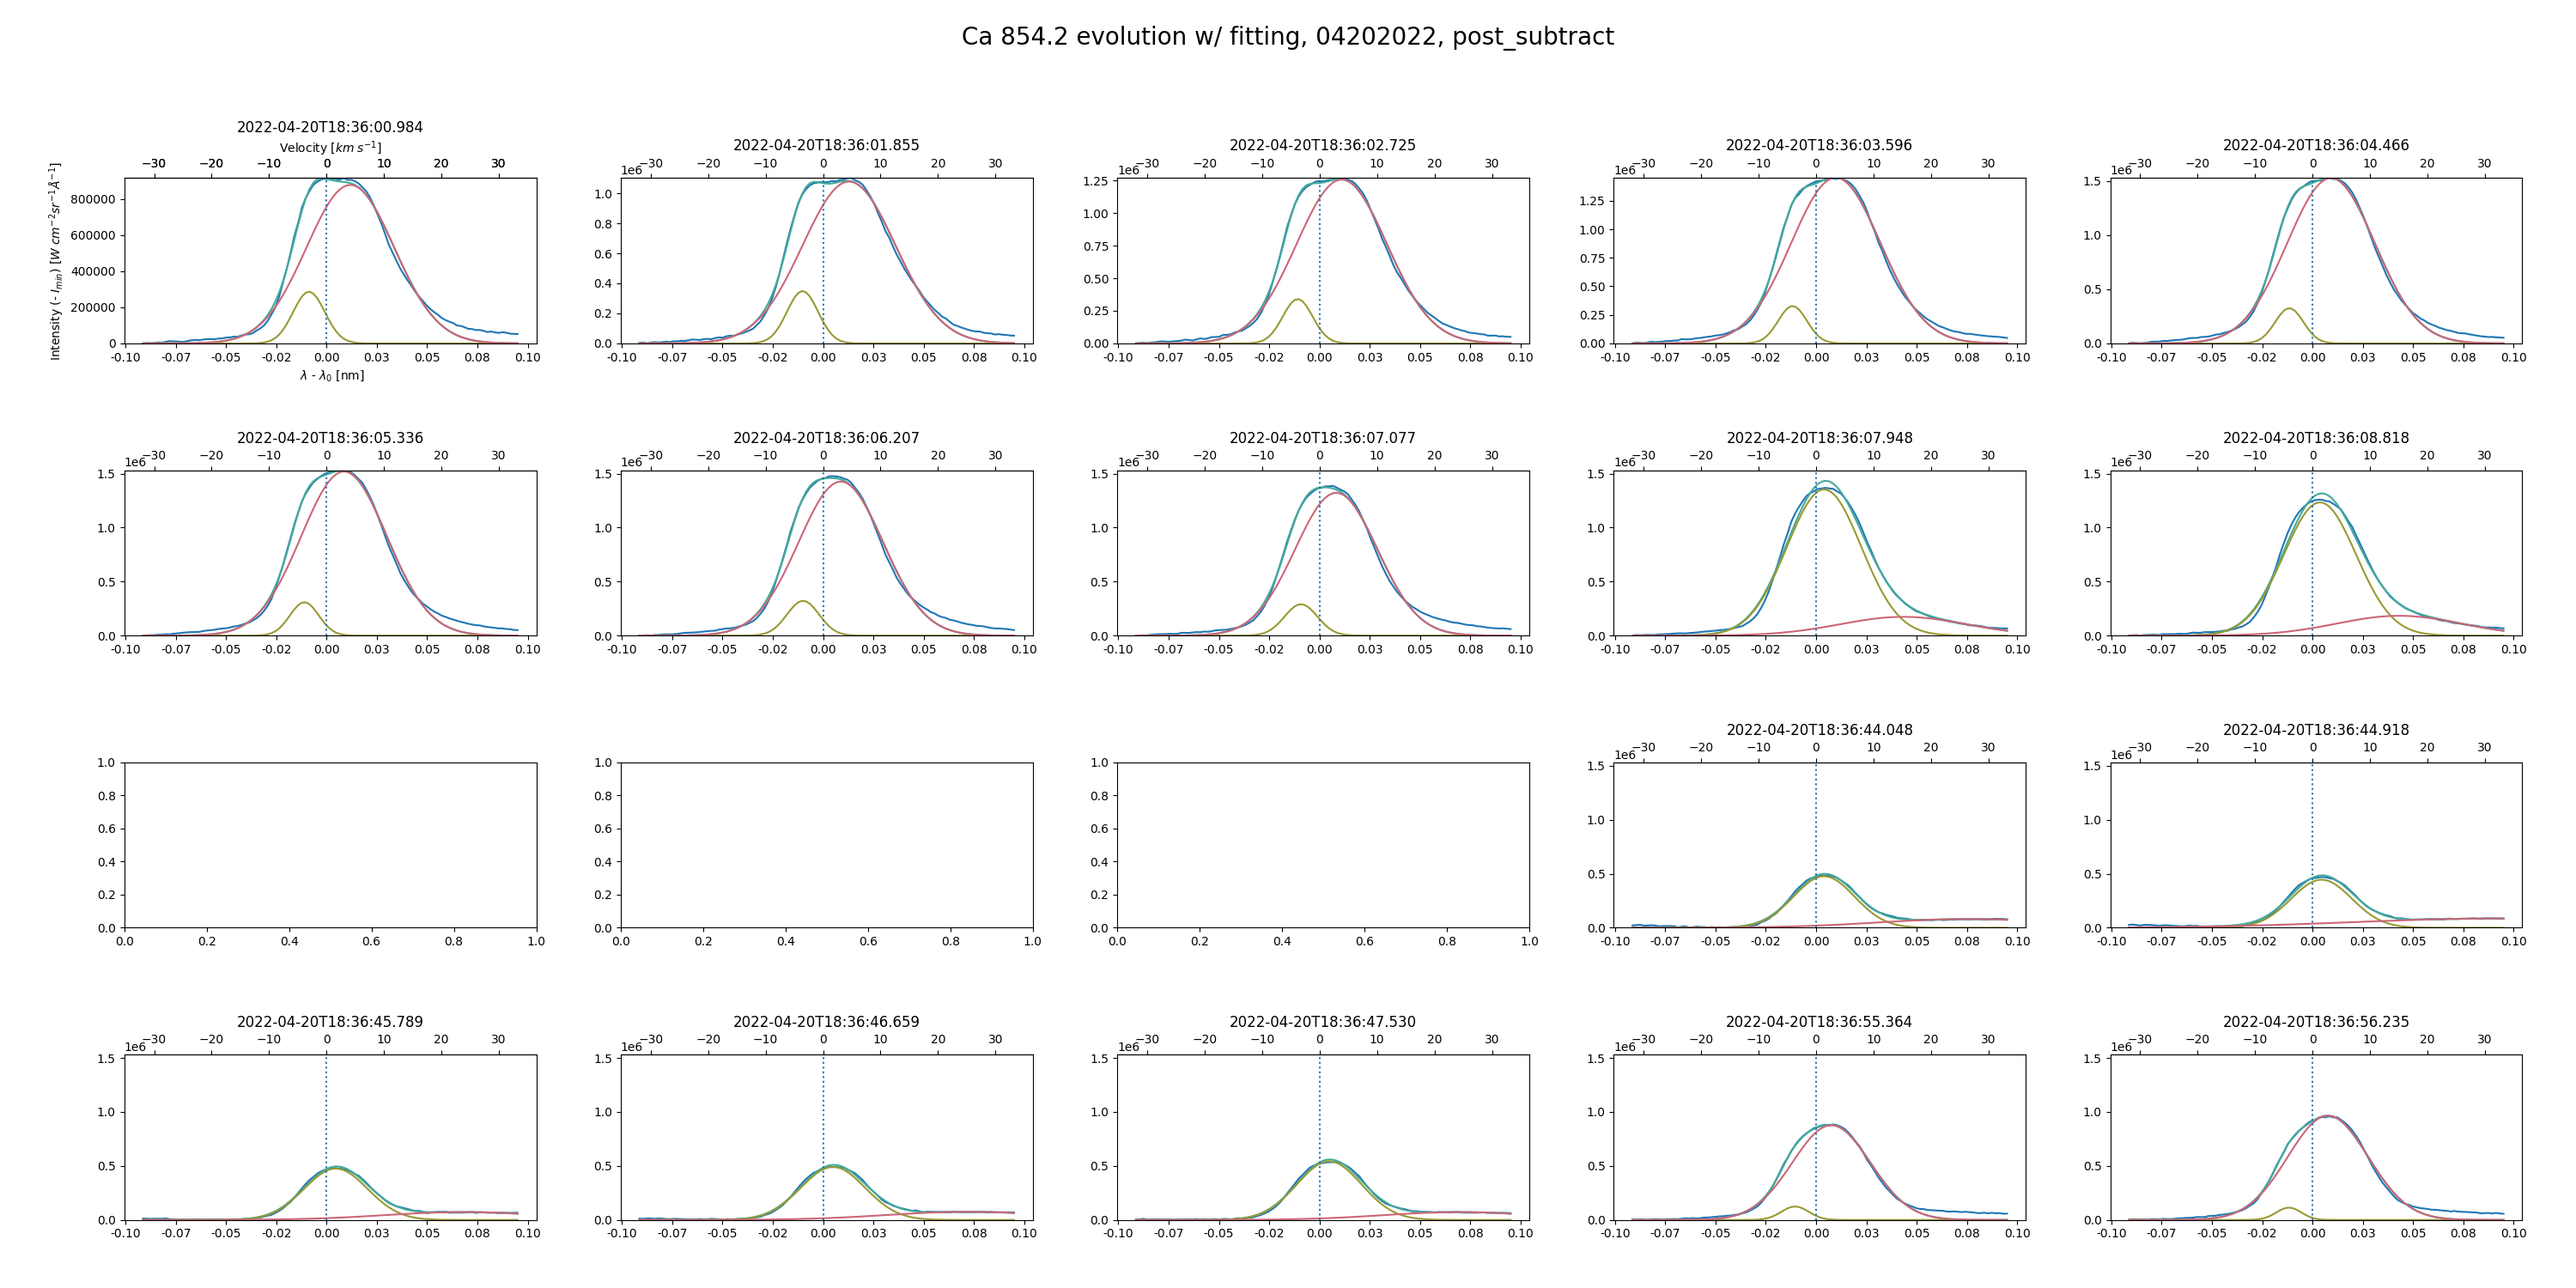
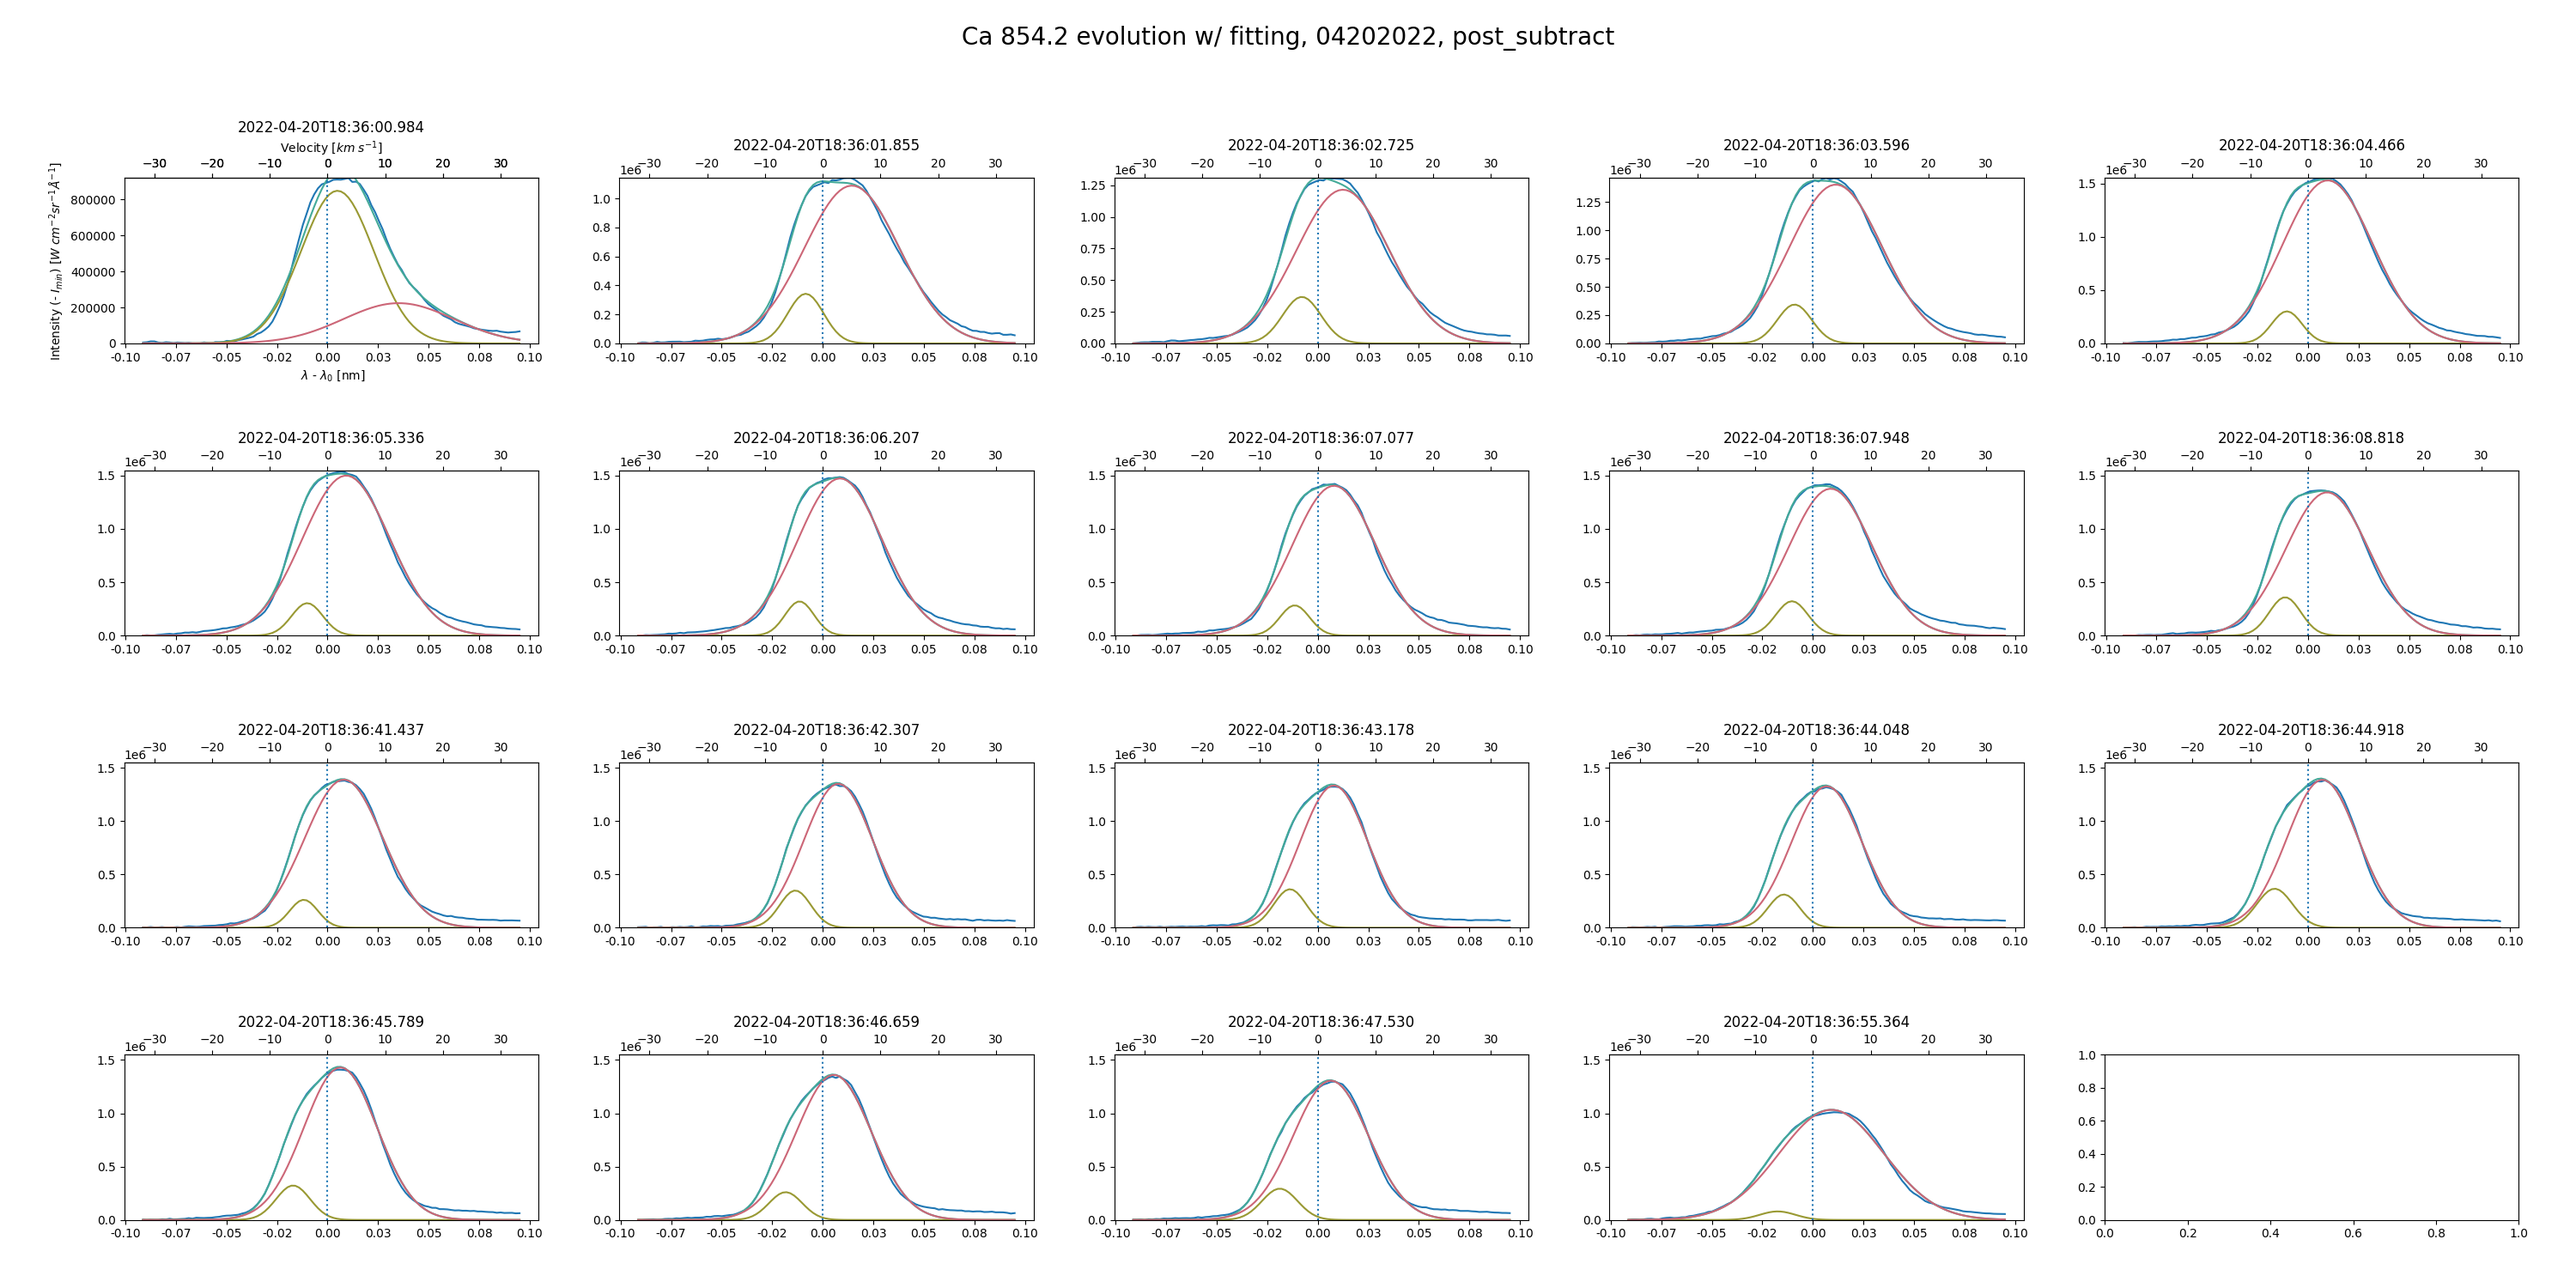
implement moving kernel center in pid_1_38 script

diff --git a/dkistpkg_ct.py b/dkistpkg_ct.py
@@ -410,15 +410,15 @@ def scaling(for_scale,nonflare_multfact,limbdarkening,nonflare_average,
     return scaled_flare_time, bkgd_subtract_flaretime
     
                             
-def pltsubtract(dispersion_range,nonflare_average,scaled_flare_time,muted,end=5,pid='pid_1_84',index=1350):
+def pltsubtract(dispersion_range,nonflare_average,scaled_flare_time,muted,indexs,end=5,pid='pid_1_84'):
     
     # plotting routines to compare flare-time with non-flare spectra
     fig,ax = plt.subplots(figsize=(10,5))
     ax.plot(dispersion_range[end:]*10,nonflare_average[:-end],\
             color=muted[4],label='Non-Flare')
-    ax.plot(dispersion_range[end:]*10,scaled_flare_time[0,end:,index],\
+    ax.plot(dispersion_range[end:]*10,scaled_flare_time[0,end:,indexs[0]],\
             color=muted[7],label='Flare-Time')
-    ax.plot(dispersion_range[end:]*10,scaled_flare_time[0,end:,index]-\
+    ax.plot(dispersion_range[end:]*10,scaled_flare_time[0,end:,indexs[0]]-\
             nonflare_average[:-end],color=muted[6],label='Flare-Only')
     ax.grid()
     #ax.set_ylim([0,5e6])
@@ -517,8 +517,6 @@ def contwind(sample_flaretime,dispersion_range,maxinds,scaled_flare_time,
         average = np.mean(snapshot,axis=0)
         avgs.append(average)
     
-    maxind = np.argmax(avgs[i][caII_low:caII_high])
-    maxinds.append(maxind)
     contwind0_1 = sample_flaretime[low0:high0]
     contwind0_1_wave = dispersion_range[low0:high0]
     contwind1 = np.mean(sample_flaretime[low1:high1])
@@ -837,9 +835,8 @@ def gauss2fit(storeamp1,storemu1,storesig1,storeamp2,storemu2,storesig2,
 def fittingroutines(bkgd_subtract_flaretime,dispersion_range,
                     times_raster1, line_low, line_high,
                     double_gaussian, gaussian, selwl,sel,paramsgauss,
-                    params2gauss,params2gaussneg,pid='pid_1_84',
-                    date = '08/09/2022',line = 'Ca II H',nimg = 7,
-                    kernind = 1350):
+                    params2gauss,params2gaussneg,maxinds,pid='pid_1_84',
+                    date = '08/09/2022',line = 'Ca II H',nimg = 7):
     # More flexible line fitting routines; currently for Ca II H as observed
     # in pid_1_84, but flexible for application to other lines.  Currently also
     # only includes functinoality for single Gaussian and double Gaussian fits;
@@ -856,6 +853,7 @@ def fittingroutines(bkgd_subtract_flaretime,dispersion_range,
     j=0
     # first iteration. Use this as guide for the fit parameters to follow
     for j in range(nimg):
+        kernind = maxinds[j]
         if l == 0:
             selwl = dispersion_range[line_low:line_high]
             sel = bkgd_subtract_flaretime[j,line_low:line_high,kernind]-\
@@ -880,7 +878,8 @@ def fittingroutines(bkgd_subtract_flaretime,dispersion_range,
     paramsgauss = paramsgauss # should be fine based on initial gauss, with 1g
     
     for i in range(nimg):
-        print(i)
+        
+        kernind = maxinds[i]
         selwl = dispersion_range[line_low:line_high]
         sel = bkgd_subtract_flaretime[i,line_low:line_high,kernind]-\
             min(bkgd_subtract_flaretime[i,line_low:line_high,kernind])
@@ -907,10 +906,9 @@ def fittingroutines(bkgd_subtract_flaretime,dispersion_range,
 
 def pltfitresults(bkgd_subtract_flaretime,dispersion_range,double_gaussian,
                   gaussian,times,muted,
-                  line_low,line_high,fits_1g,fits_2g,fits_2gneg,
+                  line_low,line_high,fits_1g,fits_2g,fits_2gneg,maxinds,
                   pid='pid_1_84',
-                  date = '08092022',line = 'Ca II H',nimg = 7,
-                  kernind = 1350,nrow=2,ncol=4,lamb0 = 396.85,c=2.99e5,
+                  date = '08092022',line = 'Ca II H',nimg = 7,nrow=2,ncol=4,lamb0 = 396.85,c=2.99e5,
                   note='',lim=0.3e6):
     
     # plotting of the output of "fittingroutines"; can expand to beyond first
@@ -941,7 +939,7 @@ def pltfitresults(bkgd_subtract_flaretime,dispersion_range,double_gaussian,
         return (((x/c)+1)*lamb0)-lamb0
     
     for i in range(nimg):
-        
+        kernind = maxinds[i]
         
         sel = bkgd_subtract_flaretime[i,line_low:line_high,kernind]-\
             min(bkgd_subtract_flaretime[i,line_low:line_high,kernind])

diff --git a/pid_1_38_analysis.py b/pid_1_38_analysis.py
@@ -121,22 +121,23 @@ scaled_flare_time, bkgd_subtract_flaretime = \
     DKISTanalysis.scaling(image_data_arr_arr, nonflare_multfact, clv_corr,
                           nonflare_average)
 
-# spatial index corresponding to part of observation of interest
-sliceind = 1600
 
 # equivalent widths, effective widths, widths
-caII_8542_low = 535
-caII_8542_high = 565
+caII_8542_low_foravg = 535
+caII_8542_high_foravg = 565
+
+caII_8542_low = 500
+caII_8542_high = 600
 
 spacelow = 1200
 spacehigh = 2000
 
 #indices of max intensity - presumably spatial indices of flare kernel
-maxindices = DKISTanalysis.maxintind(new_dispersion_range2,image_data_arr_arr,caII_8542_low,caII_8542_high,spacelow,spacehigh)
+maxindices = DKISTanalysis.maxintind(new_dispersion_range2,image_data_arr_arr,caII_8542_low_foravg,caII_8542_high_foravg,spacelow,spacehigh)
 
 # plot intensity calibrated, background-subtracted spectra
 DKISTanalysis.pltsubtract(new_dispersion_range2,nonflare_average,scaled_flare_time,
-                          muted,pid='pid_1_38',index=sliceind)
+                          muted,maxindices,pid='pid_1_38')
 
 
 
@@ -144,22 +145,20 @@ DKISTanalysis.pltsubtract(new_dispersion_range2,nonflare_average,scaled_flare_ti
 
 
 # put bkgd_subtract_flaretime here, when ready
-sample_flaretime = bkgd_subtract_flaretime[0,:,sliceind]
+sample_flaretime = bkgd_subtract_flaretime[0,:,maxindices[0]]
 
 # perform following line only if need to calculate continuum window 
 # independently of width determiation; 
 # exists within width determination script as well
 
 #nolines, cont_int_array, cont_int_wave_array = \
-    # DKISTanalysis.contwind(sample_flaretime,dispersion_range,maxinds,avgs,
+    # DKISTanalysis.contwind(sample_flaretime,dispersion_range,maxindices,avgs,
                            # low,high)
 
 # line widths, strengths initial arrays
 ew_CaII_all_fs = np.zeros((len(scaled_flare_time)-5,np.shape(bkgd_subtract_flaretime)[2]))
 eqw_CaII_all_fs = np.zeros((len(scaled_flare_time)-5,np.shape(bkgd_subtract_flaretime)[2]))
 width_CaII_all_fs = np.zeros((len(scaled_flare_time)-5,np.shape(bkgd_subtract_flaretime)[2]))
-
-maxinds = []
 
 # line widths, strength determination
 ew_CaII_all_fs, eqw_CaII_all_fs,\
@@ -181,8 +180,8 @@ storemu2 = []
 storesig2 = []
 
 
-sel = bkgd_subtract_flaretime[0,caII_8542_low:caII_8542_high,sliceind]-\
-    min(bkgd_subtract_flaretime[0,caII_8542_low:caII_8542_high,sliceind])
+sel = bkgd_subtract_flaretime[0,caII_8542_low:caII_8542_high,maxindices[0]]-\
+    min(bkgd_subtract_flaretime[0,caII_8542_low:caII_8542_high,maxindices[0]])
 selwl = dispersion_range[caII_8542_low:caII_8542_high]
         
 # width determination
@@ -204,15 +203,15 @@ fits_1g,fits_2g,fits_2gneg = \
                                   selwl,sel,[1.1,854.28,0.05],
                                   [.3e6,854.2,0.007,.6e6,854.22,0.02],
                                   [.5e6,396.85,0.015,-1e6,396.85,0.015],
-                                  pid='pid_1_38', date = '04/20/2022',
-                                  line = 'Ca II 854.2',nimg = 50, kernind = sliceind)
+                                  maxindices,pid='pid_1_38', date = '04/20/2022',
+                                  line = 'Ca II 854.2',nimg = 50)
 # plot results of Gaussian fitting
 DKISTanalysis.pltfitresults(bkgd_subtract_flaretime,new_dispersion_range2,
                             DKISTanalysis.double_gaussian,
                             DKISTanalysis.gaussian,times,muted,caII_8542_low,caII_8542_high,fits_1g,fits_2g,fits_2gneg,
-                            pid='pid_1_38', date = '04202022',line = 'Ca 854.2',
+                            maxindices,pid='pid_1_38', date = '04202022',line = 'Ca 854.2',
                             nimg = 50, nrow=4,ncol=5,
-                            note=', post_subtract',lim=0.1,lamb0=854.209,kernind=1600)
+                            note=', post_subtract',lim=0.1,lamb0=854.209)
     
 
 
